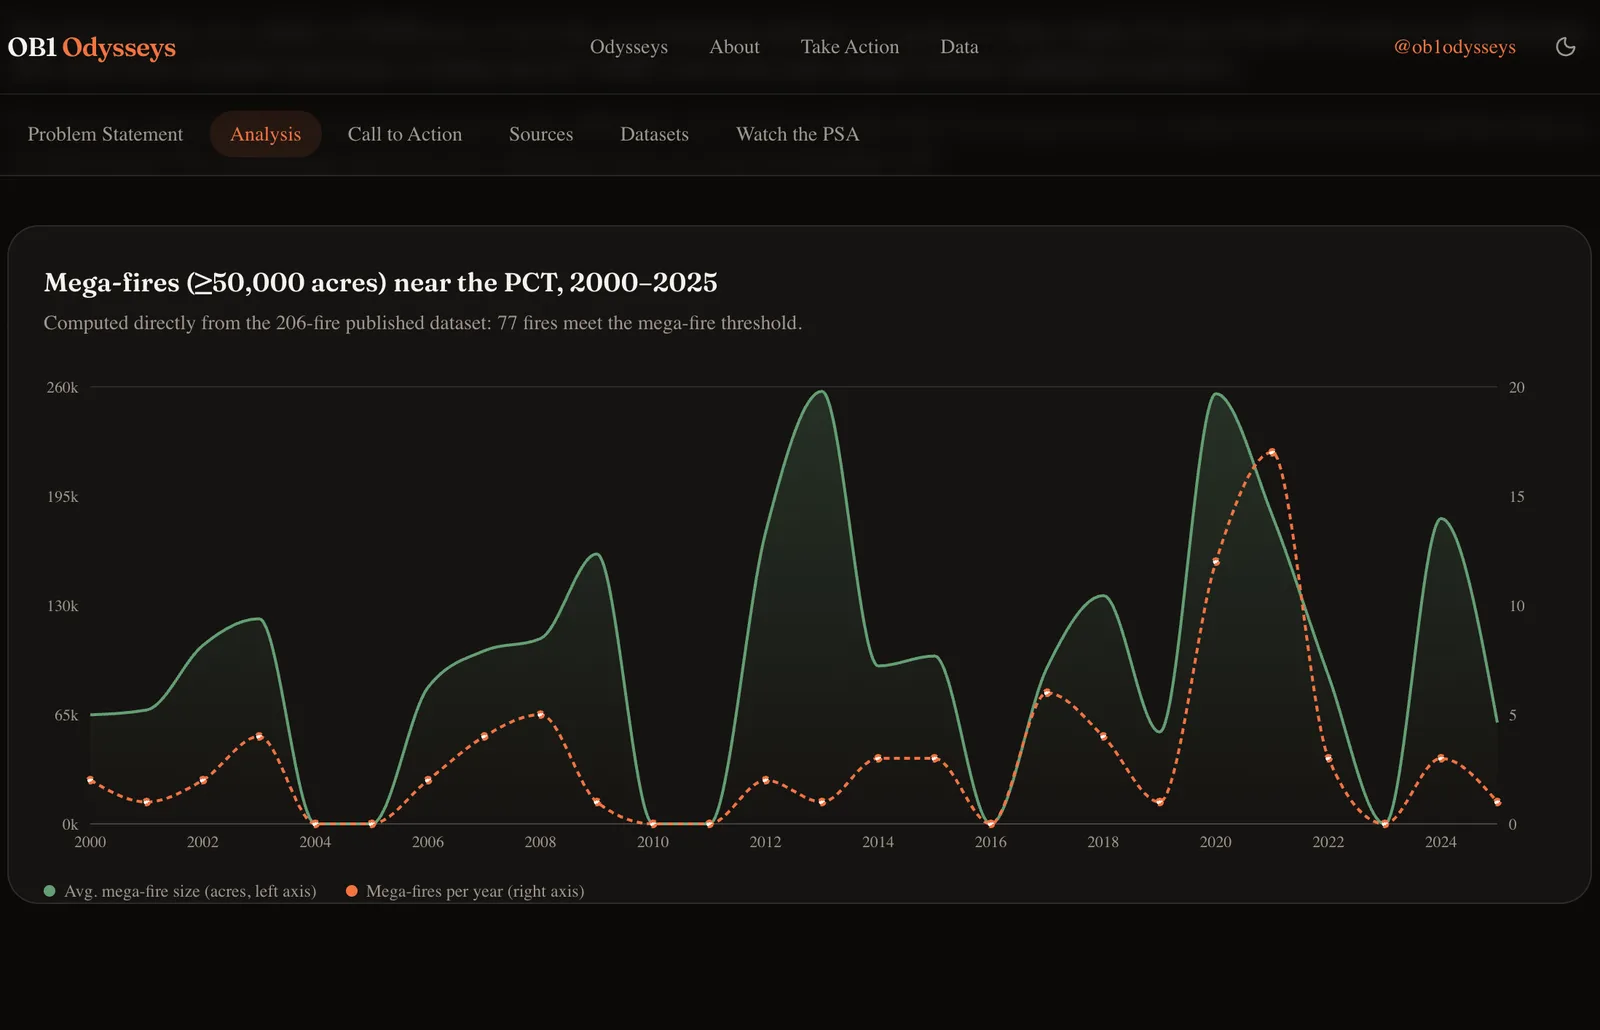
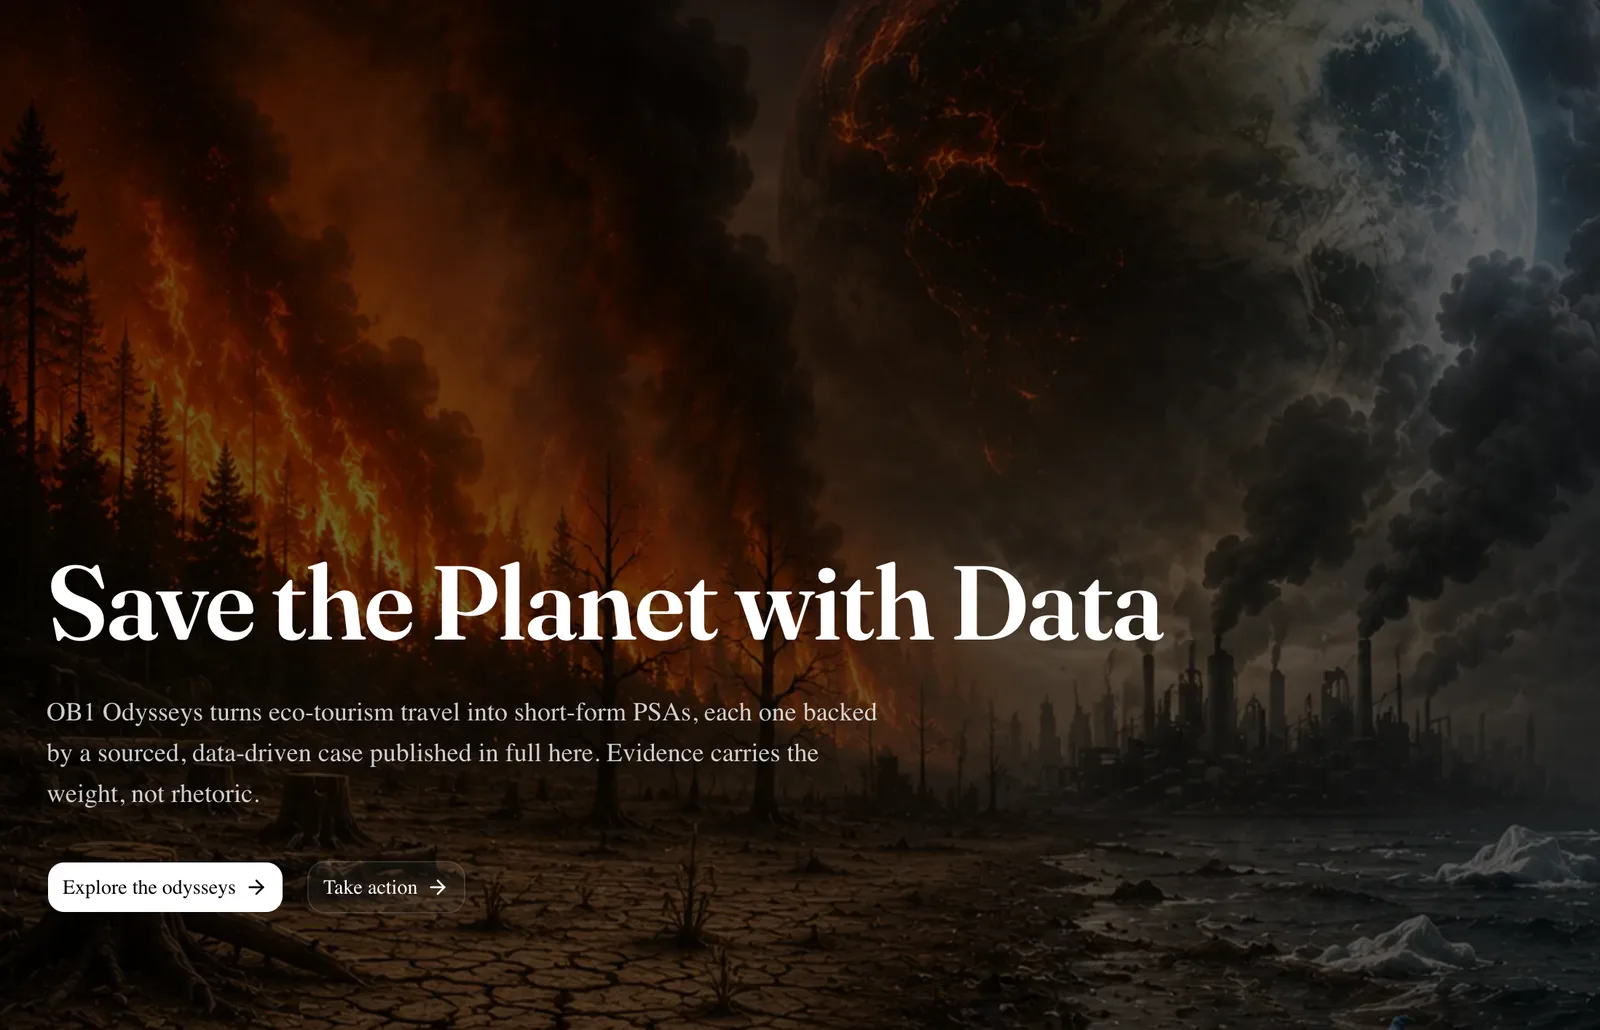
Move OB1 Odysseys to first, swap in landing hero, credit web design
Replaces the case-study chart screenshot with the landing page hero
(headline, description, both CTAs, full climate-art background).
Reorders it as the first project card. Rewrites the description to
lead with the fact that the site's design and build were Noah's own
work, and updates the tag to Web Design + Data Storytelling to match.

diff --git a/index.html b/index.html
@@ -108,9 +108,27 @@
     <h2>My recent work</h2>
     <p class="section-lead">A mix of UX/UI case studies and data-driven products. Some are about designing a better flow, others are about digging an insight out of a messy dataset.</p>
 
+    <article class="project-card project-obodysseys">
+      <div class="project-media">
+        <img src="assets/projects/obodysseys.webp" alt="OB1 Odysseys landing page hero reading 'Save the Planet with Data' over a composite image of wildfire and glacial collapse" />
+      </div>
+      <div class="project-info">
+        <span class="project-tag">Web Design + Data Storytelling</span>
+        <h3>OB1 Odysseys: Save the Planet with Data</h3>
+        <p>Designed and built the site for OB1 Odysseys, which turns eco-tourism travel into short-form PSAs, each backed by a full data-driven case published alongside it. The flagship case tracks 25 years of wildfire data along the Pacific Crest Trail: mega-fires are now roughly 3.4 times more frequent than a decade ago. Evidence carries the weight, not rhetoric.</p>
+        <div class="tech-tags">
+          <span>Next.js</span><span>TypeScript</span><span>Recharts</span>
+        </div>
+        <div class="project-links">
+          <a href="https://www.ob1odysseys.com" target="_blank" rel="noopener">Live site ↗</a>
+          <a href="https://github.com/noahfighter883/ob1-odysseys" target="_blank" rel="noopener">GitHub ↗</a>
+        </div>
+      </div>
+    </article>
+
     <article class="project-card project-registrar">
       <div class="project-media">
-        <img src="assets/projects/registrar.webp" alt="Registrar course search results table showing course listings, meeting times, and seat availability" />
+        <img src="assets/projects/registrar.webp" alt="Registrar course search results table showing course listings, meeting times, and seat availability" loading="lazy" />
       </div>
       <div class="project-info">
         <span class="project-tag">UX/UI Case Study</span>
@@ -122,24 +140,6 @@
         <div class="project-links">
           <a href="https://registrar-ux-redesign.vercel.app" target="_blank" rel="noopener">Live site ↗</a>
           <a href="https://github.com/noahfighter883/registrar-ux-redesign" target="_blank" rel="noopener">GitHub ↗</a>
-        </div>
-      </div>
-    </article>
-
-    <article class="project-card project-obodysseys">
-      <div class="project-media">
-        <img src="assets/projects/obodysseys.webp" alt="OB1 Odysseys wildfire data analysis chart showing mega-fire frequency and average size along the Pacific Crest Trail from 2000 to 2025" loading="lazy" />
-      </div>
-      <div class="project-info">
-        <span class="project-tag">Environmental Data Journalism</span>
-        <h3>OB1 Odysseys: Save the Planet with Data</h3>
-        <p>Turns eco-tourism travel into short-form PSAs, each one backed by a full data-driven case published alongside it. The flagship case tracks 25 years of wildfire data along the Pacific Crest Trail: mega-fires are now roughly 3.4 times more frequent than a decade ago. Evidence carries the weight, not rhetoric.</p>
-        <div class="tech-tags">
-          <span>Next.js</span><span>TypeScript</span><span>Recharts</span>
-        </div>
-        <div class="project-links">
-          <a href="https://www.ob1odysseys.com" target="_blank" rel="noopener">Live site ↗</a>
-          <a href="https://github.com/noahfighter883/ob1-odysseys" target="_blank" rel="noopener">GitHub ↗</a>
         </div>
       </div>
     </article>
